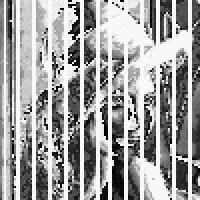
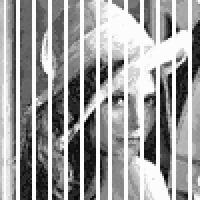
Fixed recovery

diff --git a/Algorithm/Recovery.py b/Algorithm/Recovery.py
@@ -31,13 +31,13 @@ def recovery(block):
                 i_coor = i * 2
                 j_coor = j * 2
                 blockBS = block_B[i_coor: i_coor+2, j_coor: j_coor+2]
-                r0 = td.extract_LSB(blockBS[0,0], 1)<<8
-                r1 = td.extract_LSB(blockBS[0,1], 1)<<7
-                r2 = td.extract_LSB(blockBS[1,0], 1)<<6
-                r3 = td.extract_LSB(blockBS[1,0], 2)<<5
-                r4 = td.extract_LSB(blockBS[1,1], 1)<<4
-                r5 = td.extract_LSB(blockBS[1,1], 2)<<3
-                r = r0 + r1+ r2+ r3+ r4+ r5
+                r0 = td.extract_LSB(blockBS[0,0], 1)<< 7
+                r1 = td.extract_LSB(blockBS[0,1], 1)<< 6
+                r2 = td.extract_LSB(blockBS[1,0], 1)<< 5
+                r3 = td.extract_LSB(blockBS[1,0], 2)<< 4
+                r4 = td.extract_LSB(blockBS[1,1], 1)<< 3
+                r5 = td.extract_LSB(blockBS[1,1], 2)<< 2
+                r = r0 + r1 + r2+ r3 + r4 + r5
                 blockAS = block_C[i_coor: i_coor+2, j_coor: j_coor+2]
                 blockAS.fill(r)
     return recovered

diff --git a/main.py b/main.py
@@ -1,9 +1,9 @@
 import Tests.Test_Watermark as test
 
 
-#test.test1()
+test.test1()
 test.test2()
 test.test3()
 test.test4()
-#test.test5()
-#test.test6()
+test.test5()
+test.test6()
